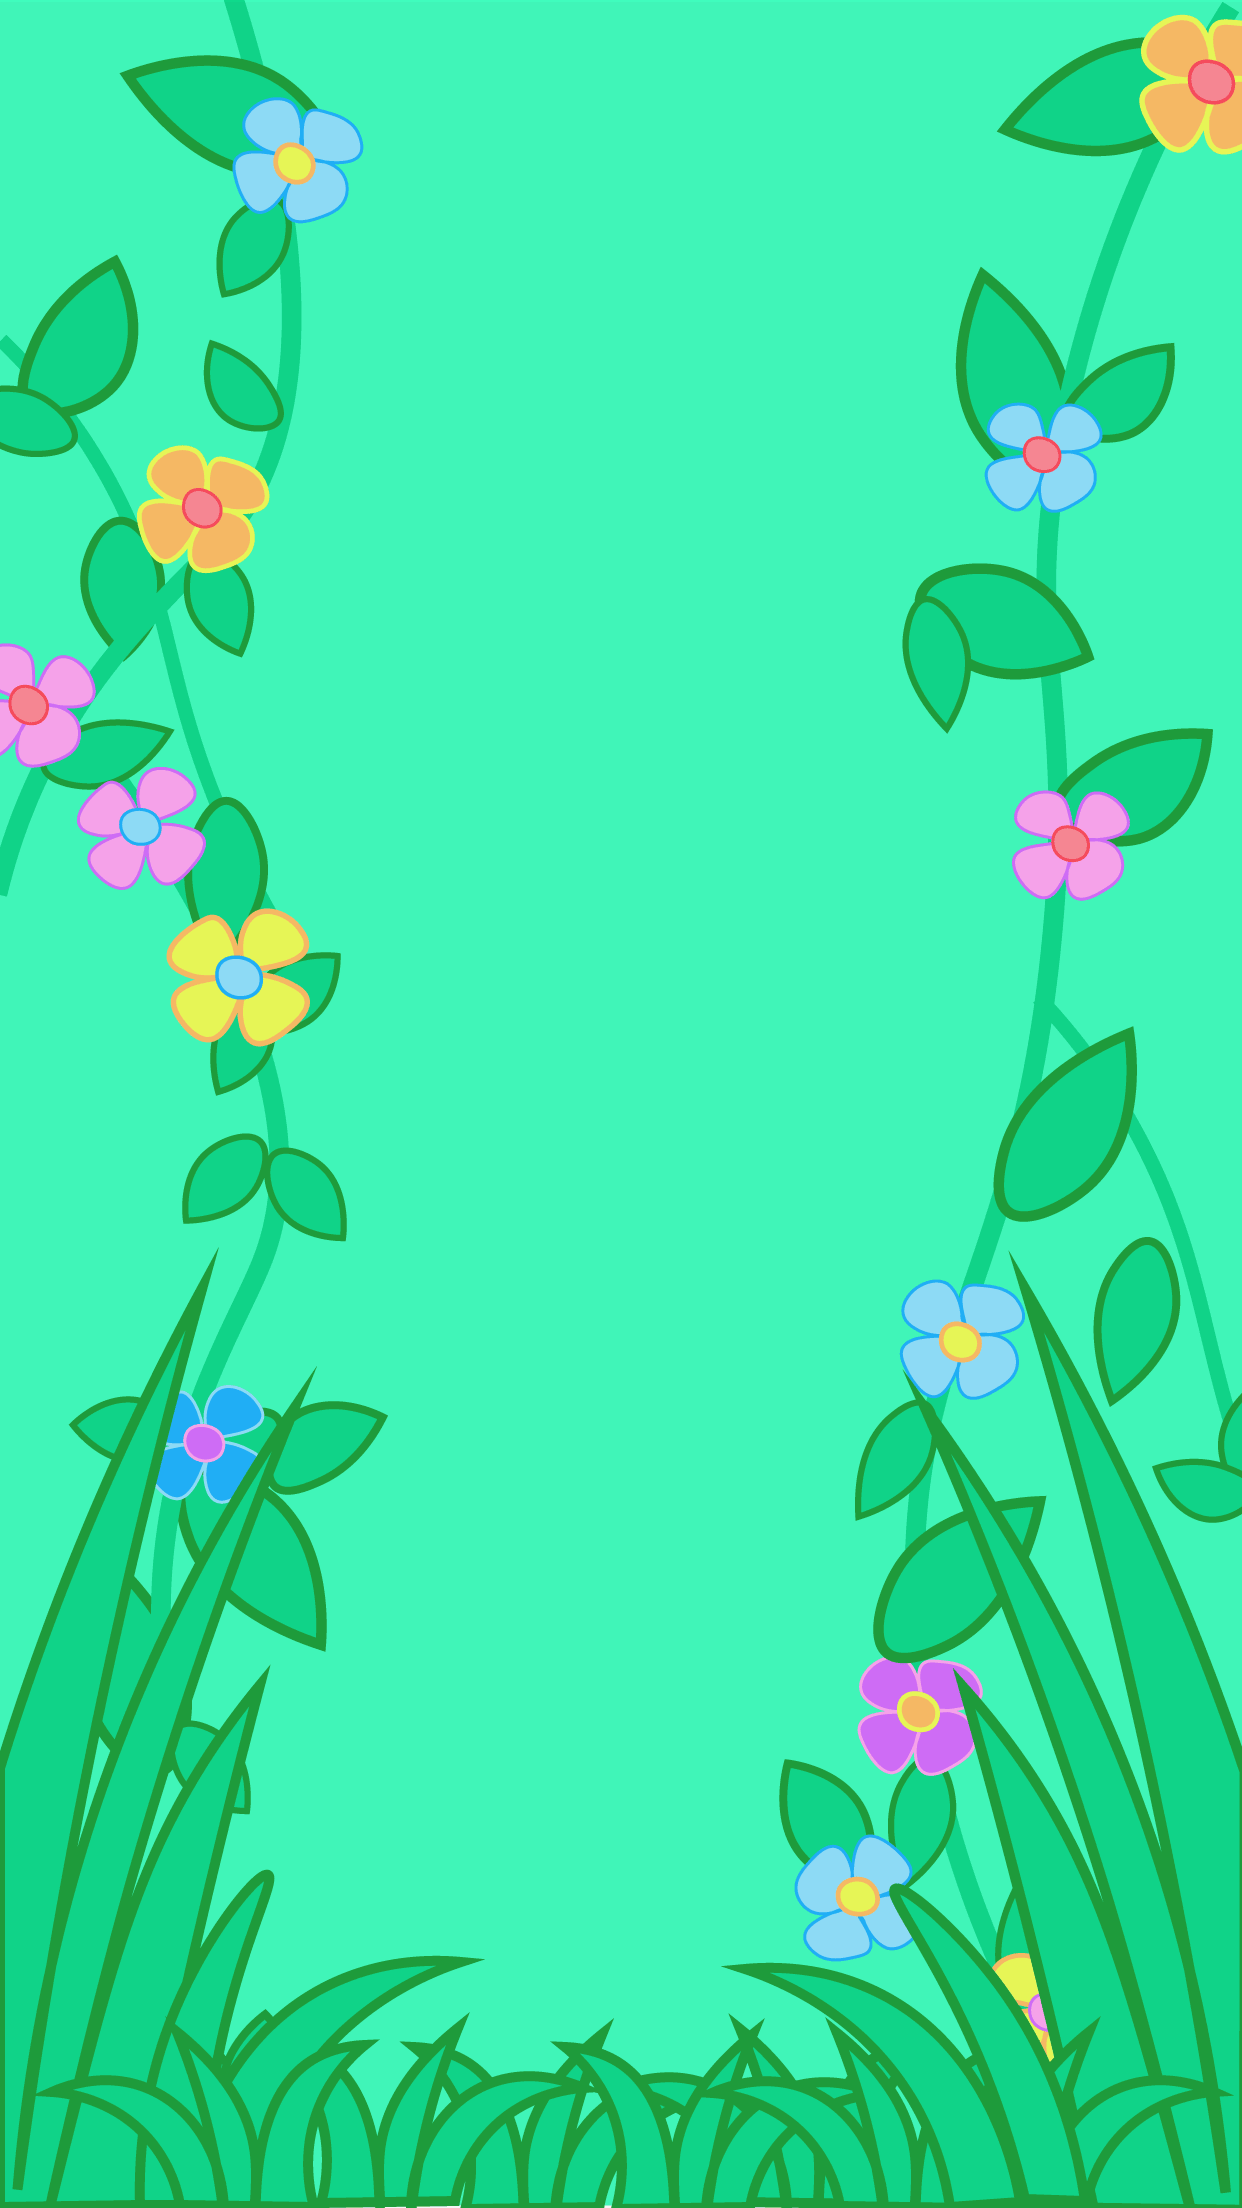
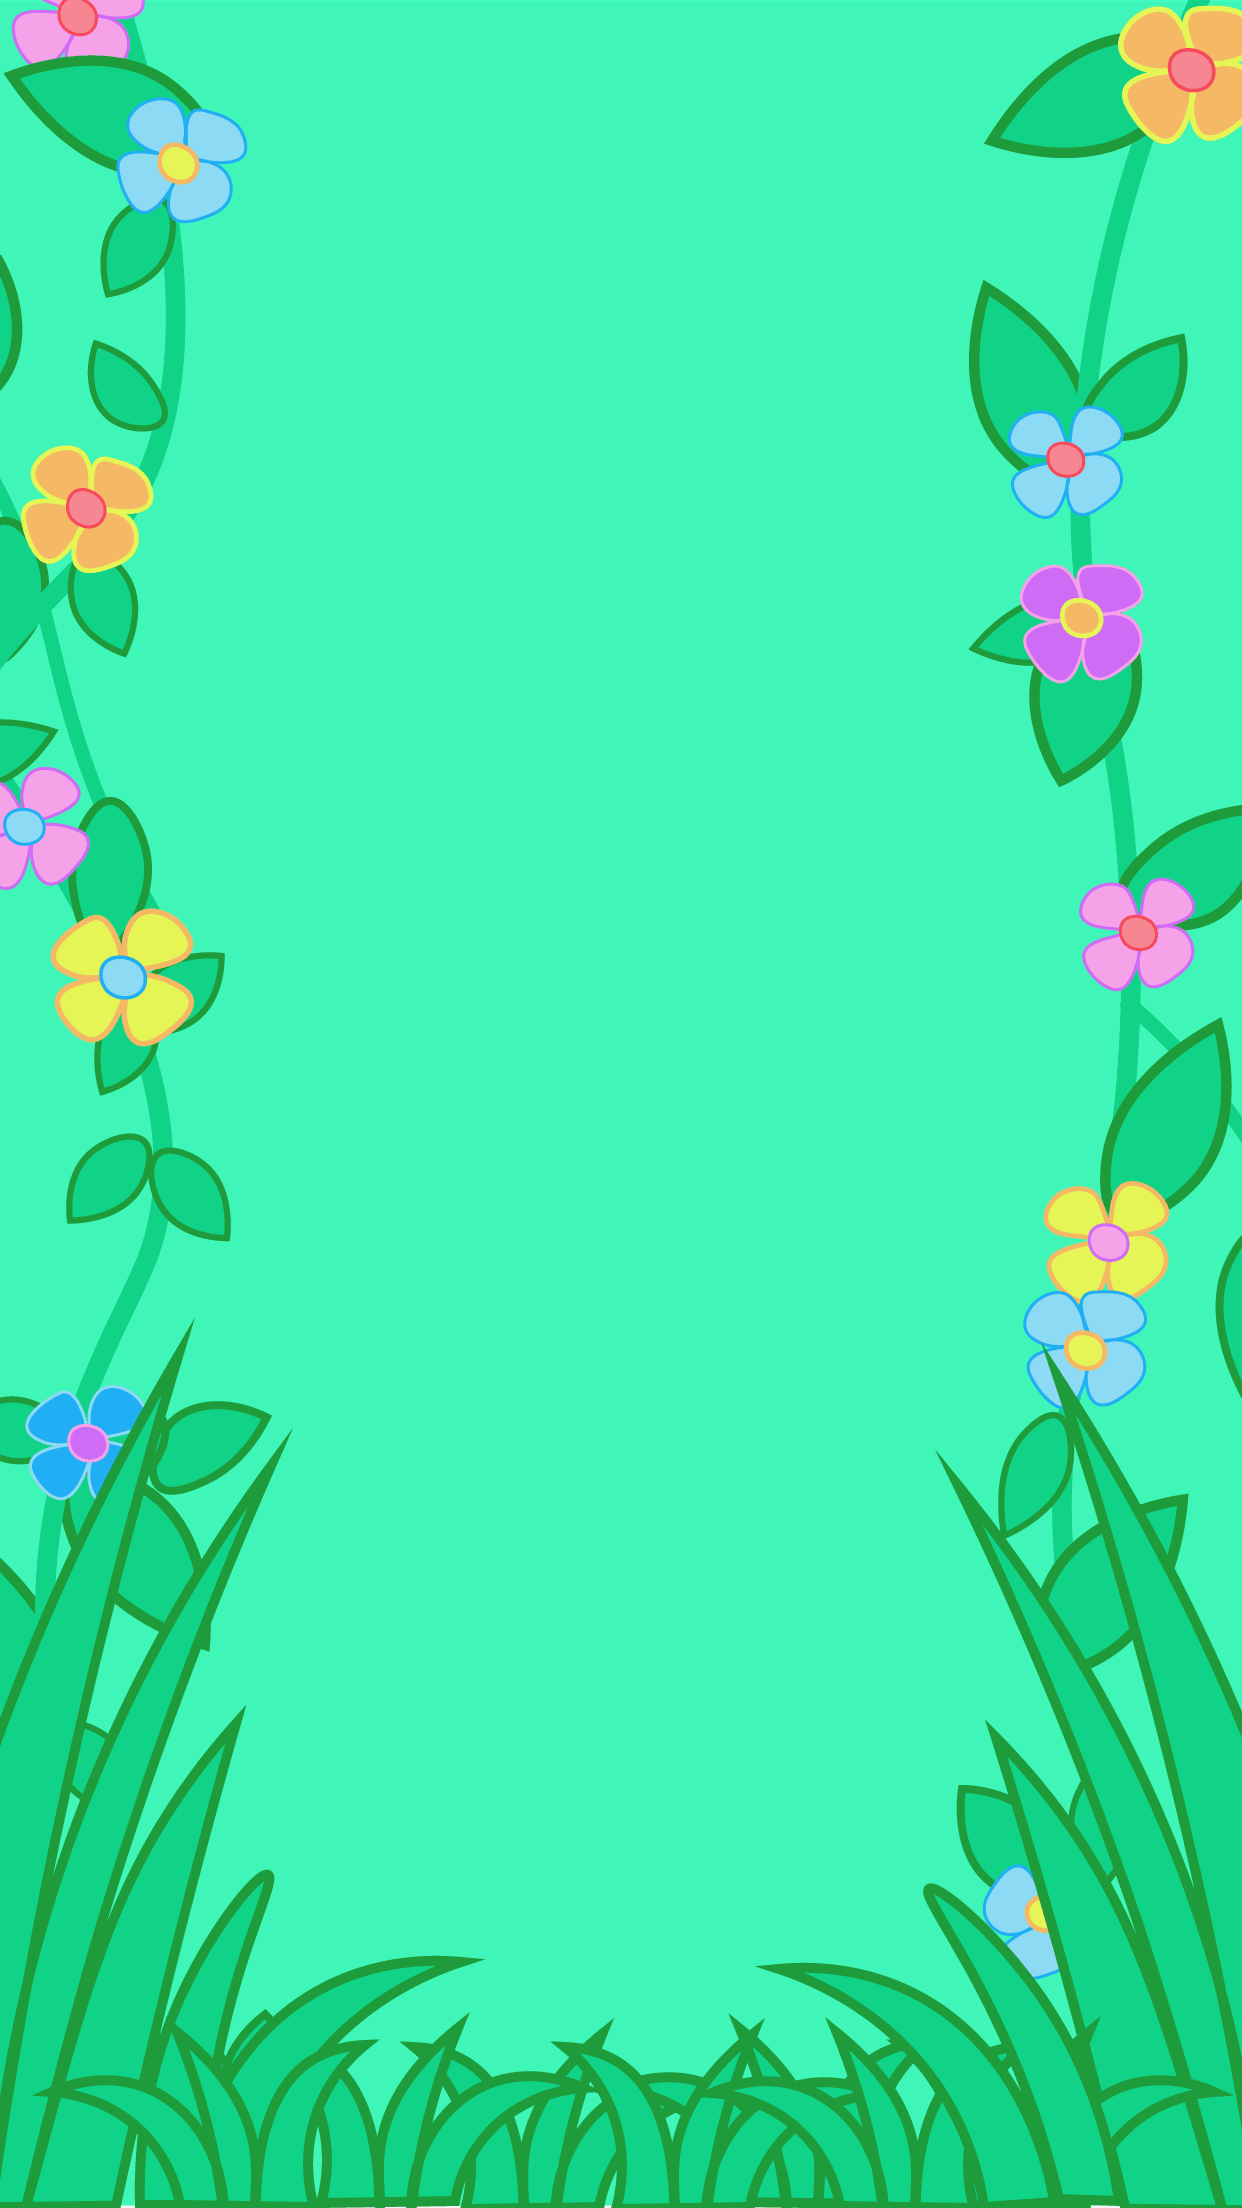
updated explore and images

diff --git a/src/pages/explore/explore.ts b/src/pages/explore/explore.ts
@@ -31,29 +31,6 @@ export class ExplorePage {
     public http: Http,
     public configService: ConfigService
     ){
-<<<<<<< HEAD
-=======
-    this.currentColor = 'orange'
-    // var charity1 = new Charity();
-    // charity1.id = 1;
-    // charity1.name = "Tennis for Fun";
-    // charity1.description = "Special Olympics training for special needs atheletes.";
-    // charity1.photoLink= "http://tennisforfun.org/wp-content/uploads/2018/03/DSC_0506-X4-e1522172511421-918x1024.jpg";
-    // charity1.photoLink2= "http://tennisforfun.org/wp-content/uploads/2018/03/cropped-tff_jesuit-2.jpg"
-    // charity1.website = "http://tennisforfun.org/"
-    // charity1.descriptionFull= "  Tennis For Fun, a free tennis clinic for athletes with special needs, is a volunteer organization that provides athletes with an opportunity to have fun playing tennis, to learn basic skills and to socialize with each other. Our program specializes with athletes of all ages that are intellectually handicapped, especially those with Down Syndrome, but other special needs athletes who qualify for Special Olympics are also welcome to join the program. Tennis For Fun is entirely a volunteer organization.  All services and equipment are donated by our wonderful and dedicated volunteers."
-
-    // var charity2 = new Charity();
-    // charity2.id= 2;
-    // charity2.name ='The Water Project';
-    // charity2.description= 'You can help end the water crisis and restore hope. Together we will provide access to clean, safe and reliable water across sub-Saharan Africa - one community at a time.';
-    // charity2.photoLink='https://thewaterproject.org/images/The_Water_Project_Logo.png'
-    // charity2.photoLink2='http://thewaterproject.org/community/wp-content/uploads/2011/11/water-project.jpg';
-    // charity2.website= 'https://thewaterproject.org/';
-    // charity2.descriptionFull = 'The Water Project, Inc. is a 501(c)(3) non-profit organization unlocking human potential by providing reliable water projects to communities in sub-Saharan Africa who suffer needlessly from a lack of access to clean water and proper sanitation. For ten years, we have been helping communities gain access to clean, safe water by providing training, expertise and financial support for water project construction through our staff and implementing partners.'
-    // this.charities.push(charity1);
-    // this.charities.push(charity2);
->>>>>>> julia-ui-branch
 
     this.http
     .get(this.configService.getBaseUrl() + "/charities")
@@ -70,8 +47,6 @@ export class ExplorePage {
       }
     );
   }
-
-
 
   ionViewDidLoad() {
   }

diff --git a/src/pages/explore/explore.html b/src/pages/explore/explore.html
@@ -6,18 +6,20 @@
 
 
 <ion-content padding>
-  <h1>
-    Browse through the organizations that need your help.
-  </h1>
-  <ion-card ion-item *ngFor="let charity of charities">
-    <ion-card-header>
-      {{charity.name}}
+  <p>
+    Each animal represents a charity that you can support. <br> Donate to collect animals and watch you collection grow!
+  </p>
+  <ion-card class="card-style" ion-item *ngFor="let charity of charities">
+      <img class="card-image" src="../../assets/imgs/png/octopus.png"/>
+      <!-- <img src={{charity.photoLink}}/> -->
+    <ion-card-header class="card-header"r>
+      Supporting {{charity.name}}
     </ion-card-header>
-    <img src={{charity.photoLink}}/>
+    
     <ion-card-content>
       {{charity.desciption}}
-      <button ion-button class="safari" block (click)="navigateToPage(charity)"> More Info </button>
+      <button ion-button small (click)="navigateToPage(charity)"> More Info </button>
     </ion-card-content>
   </ion-card>
-
+ 
 </ion-content>

diff --git a/src/pages/explore/explore.scss b/src/pages/explore/explore.scss
@@ -1,11 +1,32 @@
 page-explore {
-
-    h1{
+    p {
         text-align: center;
-        font-size: 70%;
+        font-size: 49%;
+        background-color: color($colors,pink);
+        margin: 0;
+        padding: 10px;
     }
-
-    // $ion-header ion-toolbar-button-color: color($colors, orange);
-    // $toolbar-background: color($colors, orange);
-    
+    .card-image
+    {
+        height: 120px;
+        width: 120px;
+        margin-left: auto;
+        margin-right: auto;
+    }
+    .card-style {
+        text-align: center;
+        background-color: transparent; 
+        box-shadow: none !important;
+        padding: 0;
+    }
+    .card-style button {
+        background-color: color($colors, orange);
+        font-size: 1.5rem;
+        margin: 0;
+    }
+    .card-header
+    {
+        margin: 0;
+    }
 }
+ 

diff --git a/src/theme/variables.scss b/src/theme/variables.scss
@@ -107,7 +107,7 @@ $colors: (
 };
 
 $font-family-base: 'CrusoeText-Regular';
-$font-size-base: 2rem;
+$font-size-base: 2.5rem;
 $toolbar-ios-title-font-size: 2.5rem;
 
 // $buttoncolors: (
@@ -121,7 +121,7 @@ ion-header ion-icon.back-button-icon.icon {
 $toolbar-background: transparent;
 
 ion-content {
-  background-image: url("https://i.imgur.com/d3BwGiO.png");
+  background-image: url("https://i.imgur.com/qiuALKv.png");
   background-color: transparent;
   background-repeat: no-repeat;
   background-size: cover;
@@ -129,5 +129,6 @@ ion-content {
 
 .page-headers
 {
-  background-color: orange;
+  background-color: color($colors, orange);
+
 }

diff --git a/src/app/app.scss b/src/app/app.scss
@@ -20,13 +20,17 @@
 //   //background-color: color($colors, orange);
 // }
 
-.scroll-content {
-    overflow: hidden;
-  }
+// .scroll-content {
+//     overflow: hidden;
+//   }
 
 .button {
     font-size: 2.5rem;
 }
+
+[noScroll] .scroll-content {
+    overflow: hidden !important;
+  }
 
 // Then you can A. Make classes for your colors and do <button ion-button
 //  [ngClass]="buttonClass" (click)="someAction()"></button> B. Set the styling

diff --git a/src/app/app.module.ts b/src/app/app.module.ts
@@ -34,12 +34,8 @@ import { CharityCreationPage } from '../pages/charity-creation/charity-creation'
     PaymentPage,
     PortfolioPage,
     CharityListPage,
-<<<<<<< HEAD
     ProjectPage,
     CharityCreationPage
-=======
-    ProjectPage
->>>>>>> julia-ui-branch
   ],
   imports: [
     BrowserModule,

diff --git a/src/pages/registration/registration.html b/src/pages/registration/registration.html
@@ -6,7 +6,7 @@
     </ion-navbar>
 </ion-header>
 
-<ion-content padding scroll="false">
+<ion-content padding noScroll>
     <ion-list class="registration-content">
         <ion-item>
             <ion-label floating>First Name</ion-label>

diff --git a/src/pages/login/login.html b/src/pages/login/login.html
@@ -6,7 +6,7 @@
     </ion-navbar>
 </ion-header>
 
-<ion-content padding class="page">
+<ion-content padding class="page" noScroll>
         <ion-list>
                 <ion-item>
                   <ion-label floating >Username</ion-label>

diff --git a/src/pages/home/home.html b/src/pages/home/home.html
@@ -6,7 +6,7 @@
   </ion-navbar>
 </ion-header> -->
 
-<ion-content text-center padding id="homepage">
+<ion-content text-center padding id="homepage" noScroll>
 
   <p id="appname">Crypto Safari</p>
   

diff --git a/src/pages/charity-creation/charity-creation.html b/src/pages/charity-creation/charity-creation.html
@@ -7,7 +7,7 @@
 <ion-header>
 
   <ion-navbar>
-    <ion-title>charity-creation</ion-title>
+    <ion-title>Charity Registration</ion-title>
   </ion-navbar>
 
 </ion-header>

diff --git a/src/pages/charity-list/charity-list.scss b/src/pages/charity-list/charity-list.scss
@@ -18,4 +18,4 @@ page-charity-list{
     ion-icon{
         color: salmon;
     }
-}
+} 

diff --git a/src/pages/charity-list/charity-list.html b/src/pages/charity-list/charity-list.html
@@ -21,4 +21,4 @@
             </div>
       </ion-list>
   </ion-content>
-  
+    
